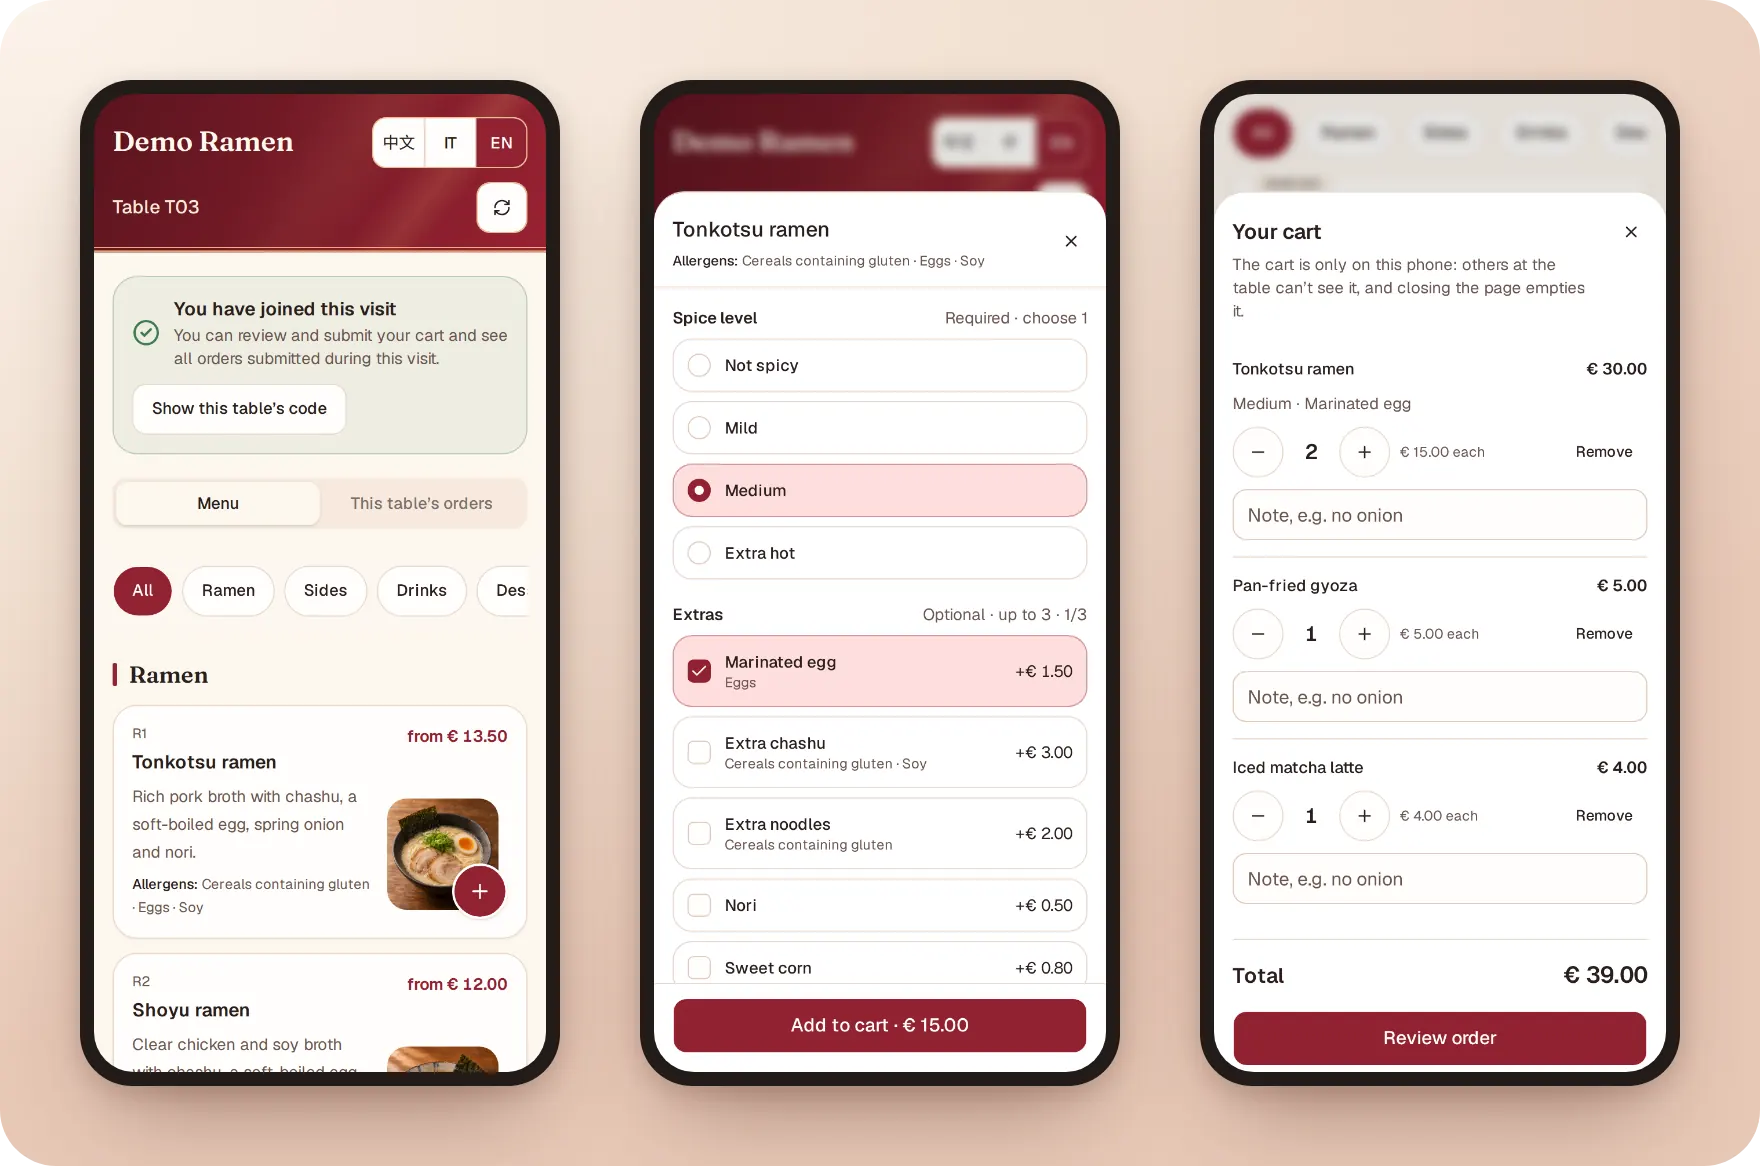
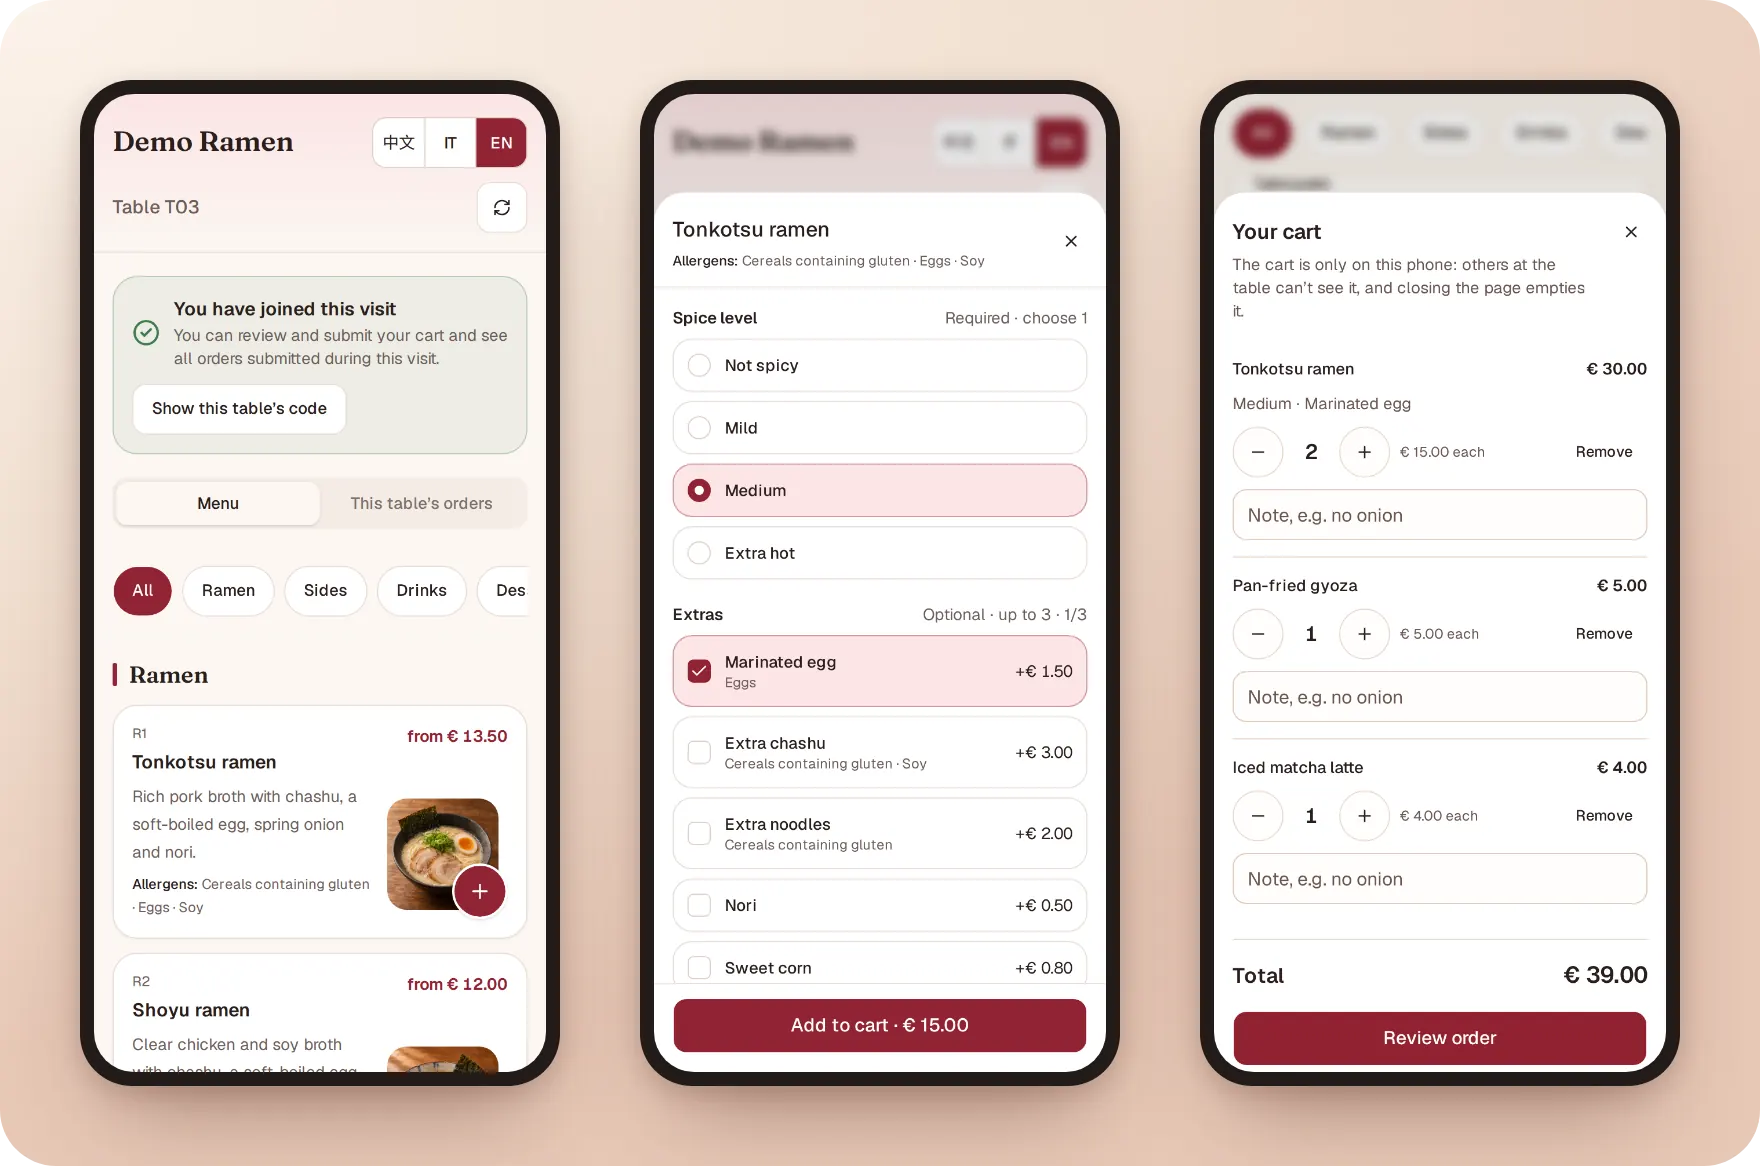
frontend: fix staff order layout and navigation

Changed region(s): [[0.0312, 0.0617, 0.3125, 0.2161], [0.3438, 0.0617, 0.6562, 0.1852]]

diff --git a/frontend/src/features/dining/StaffOrderPanel.tsx b/frontend/src/features/dining/StaffOrderPanel.tsx
@@ -1,4 +1,4 @@
-import { useRef, useState } from "react";
+import { useEffect, useRef, useState } from "react";
 import { useQuery } from "@tanstack/react-query";
 import { ArrowLeft, Plus } from "lucide-react";
 import { ConfirmDialog } from "@/components/confirm-dialog";
@@ -15,6 +15,7 @@ import { dishPriceCents, itemGroups } from "@/features/orders/options";
 import { totalCents } from "@/features/orders/state";
 import { formatMoney } from "@/lib/format";
 import { displayName } from "@/lib/language";
+import { useHistorySheet } from "@/lib/useHistorySheet";
 import { useLiveActive } from "@/lib/useLiveView";
 import { useStaffLanguage } from "@/lib/useStaffLanguage";
 import { staffOrderMessages } from "./staff-order-messages";
@@ -46,12 +47,23 @@ export function StaffOrderPanel({
   const menu = query.data;
   const [category, setCategory] = useState("");
   const [optionItemId, setOptionItemId] = useState<string | null>(null);
+  const panel = useRef<HTMLElement>(null);
+  const options = useHistorySheet(
+    "staff-order-options",
+    false,
+    () => panel.current?.closest<HTMLElement>('[data-slot="detail-scroll"]') ?? null,
+  );
   const cartHeading = useRef<HTMLHeadingElement>(null);
   const model = useStaffOrder({ account, tableId, sessionId, canSubmit, onDone });
   const { cart, review, busy, ended } = model;
   const locked = !canSubmit || !active || ended;
   const frozen = locked || busy || !!cart.pending || !!review;
-  const optionItem = menu?.items.find((item) => item.id === optionItemId) ?? null;
+  const optionItem = options.open
+    ? (menu?.items.find((item) => item.id === optionItemId) ?? null)
+    : null;
+  useEffect(() => {
+    if (options.open && (!optionItem || closed || ended || cart.pending)) options.hide();
+  });
   const defaultLanguage = menu?.defaultLanguage ?? language;
   const currentCategory = menu?.categories.some((entry) => entry.id === category) ? category : "";
   const dishes = menu?.items.filter(
@@ -60,7 +72,7 @@ export function StaffOrderPanel({
   const subtotal = (lines: typeof cart.lines) => formatMoney(totalCents(lines), language);
 
   return (
-    <section aria-label={m.place} className="min-w-0 space-y-4">
+    <section ref={panel} aria-label={m.place} className="min-w-0 space-y-4">
       <Button variant="ghost" onClick={onBack}>
         <ArrowLeft aria-hidden="true" /> {m.back}
       </Button>
@@ -146,8 +158,10 @@ export function StaffOrderPanel({
                     aria-label={m.add(name.text)}
                     disabled={frozen || unavailable || query.isError}
                     onClick={() => {
-                      if (itemGroups(item, menu.optionGroups).length) setOptionItemId(item.id);
-                      else model.add(item, menu);
+                      if (itemGroups(item, menu.optionGroups).length) {
+                        setOptionItemId(item.id);
+                        options.show();
+                      } else model.add(item, menu);
                     }}
                   >
                     <Plus aria-hidden="true" />
@@ -165,10 +179,10 @@ export function StaffOrderPanel({
             defaultLanguage={defaultLanguage}
             language={language}
             disabled={frozen}
-            close={() => setOptionItemId(null)}
+            close={options.hide}
             add={(item, ids) => {
               model.add(item, menu, ids);
-              setOptionItemId(null);
+              options.hide();
             }}
           />
         </>
@@ -220,7 +234,12 @@ export function StaffOrderPanel({
       )}
       <ConfirmDialog
         open={!!review && !!menu}
-        title={`${m.review} · ${tableTitle}`}
+        title={
+          <span className="block wrap-anywhere">
+            {m.review} · {tableTitle}
+          </span>
+        }
+        contentClassName="max-h-[calc(100dvh-2rem)] grid-cols-[minmax(0,1fr)] grid-rows-[auto_minmax(0,1fr)_auto]"
         confirmLabel={m.send}
         busy={busy}
         confirmDisabled={locked}
@@ -228,7 +247,7 @@ export function StaffOrderPanel({
         onCancel={model.dismissReview}
       >
         {review && menu && (
-          <div className="max-h-[45dvh] overflow-y-auto">
+          <div className="min-h-0 max-h-[45dvh] overflow-y-auto">
             <CartLines
               lines={review.lines}
               editable={false}

diff --git a/frontend/src/lib/useHistorySheet.ts b/frontend/src/lib/useHistorySheet.ts
@@ -1,22 +1,26 @@
 import { useEffect, useRef, useState } from "react";
 import { useLocation, useRouter } from "@tanstack/react-router";
 
-export type HistorySheet = "cart" | "options";
+export type HistorySheet = "cart" | "options" | "staff-order-options";
 
 declare module "@tanstack/react-router" {
   interface HistoryState {
-    // A customer page's open bottom sheet (useHistorySheet).
+    // An open bottom sheet (useHistorySheet).
     sheet?: HistorySheet;
   }
 }
 
-// A customer page's bottom sheet (the cart, a dish's options) as a step in the browser history. Opening
+// Treat a bottom sheet (the cart, a dish's options) as a step in the browser history. Opening
 // it adds an entry that only marks the sheet in its state, with the same URL, so the back gesture
 // (Android's back button, an iPhone's edge swipe, an in-app browser's back arrow) closes the sheet
 // instead of leaving the page, where a closed tab would lose the cart. Closing it from the page goes
 // back over that entry. The router scrolls every history step to the top, so closing restores the
 // scroll position the page had when the sheet opened.
-export function useHistorySheet(name: HistorySheet, restoreOnMount = true) {
+export function useHistorySheet(
+  name: HistorySheet,
+  restoreOnMount = true,
+  scrollElement?: () => HTMLElement | null,
+) {
   const router = useRouter();
   const state = useLocation({ select: (location) => location.state });
   const marked = state.sheet === name;
@@ -24,7 +28,7 @@ export function useHistorySheet(name: HistorySheet, restoreOnMount = true) {
   const [discardedKey] = useState(() => (marked && !restoreOnMount ? key : null));
   const discarded = marked && key === discardedKey;
   const open = marked && !discarded;
-  const scroll = useRef<number>(undefined);
+  const scroll = useRef<{ element: HTMLElement | null; top: number }>(undefined);
   // One history step at a time: a second tap before the first lands would add or remove another entry.
   const moving = useRef(false);
   useEffect(() => {
@@ -59,15 +63,19 @@ export function useHistorySheet(name: HistorySheet, restoreOnMount = true) {
           fromLocation?.state.sheet === name &&
           toLocation.state.sheet !== name &&
           fromLocation.pathname === toLocation.pathname
-        )
-          window.scrollTo(0, scroll.current);
+        ) {
+          const { element, top } = scroll.current;
+          if (element) element.scrollTop = top;
+          else window.scrollTo(0, top);
+        }
       }),
     [router, name],
   );
   function show() {
     if (marked || moving.current) return;
     moving.current = true;
-    scroll.current = window.scrollY;
+    const element = scrollElement?.() ?? null;
+    scroll.current = { element, top: element?.scrollTop ?? window.scrollY };
     void router.navigate({
       to: ".",
       search: true,

diff --git a/frontend/src/routes/staff.floor.tsx b/frontend/src/routes/staff.floor.tsx
@@ -1,7 +1,13 @@
-import { useCallback } from "react";
-import { createFileRoute } from "@tanstack/react-router";
+import { useCallback, useEffect, useRef } from "react";
+import { createFileRoute, useRouter } from "@tanstack/react-router";
 import { FloorPage } from "@/features/dining/FloorPage";
 import { billingSearch } from "@/features/billing/state";
+
+declare module "@tanstack/react-router" {
+  interface HistoryState {
+    staffOrderFromTable?: string;
+  }
+}
 
 export const Route = createFileRoute("/staff/floor")({
   validateSearch: (search: Record<string, unknown>): { sessionId?: string; mode?: "order" } => {
@@ -14,17 +20,40 @@ export const Route = createFileRoute("/staff/floor")({
   component: function FloorRoute() {
     const search = Route.useSearch();
     const navigate = Route.useNavigate();
+    const router = useRouter();
+    const returning = useRef(false);
+    useEffect(() => {
+      returning.current = false;
+    }, [search.sessionId, search.mode]);
     const select = useCallback(
       (sessionId: string) => void navigate({ search: { sessionId: sessionId || undefined } }),
       [navigate],
     );
     const showOrder = useCallback(
-      (sessionId: string, open: boolean) =>
+      (sessionId: string, open: boolean) => {
+        const location = router.history.location;
+        const current = new URLSearchParams(location.search);
+        if (current.get("sessionId") !== sessionId || (current.get("mode") === "order") === open)
+          return;
+        // Only an entry opened from this table is guaranteed to have its detail one step back.
+        if (
+          !open &&
+          location.state.staffOrderFromTable === sessionId &&
+          router.history.canGoBack()
+        ) {
+          if (returning.current) return;
+          returning.current = true;
+          router.history.back();
+          return;
+        }
         void navigate({
           search: { sessionId, mode: open ? "order" : undefined },
+          state: open ? { staffOrderFromTable: sessionId } : {},
           replace: !open,
-        }),
-      [navigate],
+          resetScroll: false,
+        });
+      },
+      [navigate, router],
     );
     return (
       <FloorPage

diff --git a/frontend/src/components/confirm-dialog.tsx b/frontend/src/components/confirm-dialog.tsx
@@ -20,6 +20,7 @@ export function ConfirmDialog({
   title,
   description,
   children,
+  contentClassName,
   confirmLabel,
   cancelLabel,
   tone = "default",
@@ -33,6 +34,7 @@ export function ConfirmDialog({
   title: ReactNode;
   description?: ReactNode;
   children?: ReactNode;
+  contentClassName?: string;
   confirmLabel: string;
   cancelLabel?: string;
   tone?: "default" | "destructive";
@@ -50,7 +52,7 @@ export function ConfirmDialog({
         if (!next && !busy) onCancel();
       }}
     >
-      <AlertDialogContent initialFocus={initialFocus}>
+      <AlertDialogContent className={contentClassName} initialFocus={initialFocus}>
         <AlertDialogHeader>
           <AlertDialogTitle className="text-lg font-semibold wrap-break-word">
             {title}

diff --git a/frontend/src/components/master-detail.tsx b/frontend/src/components/master-detail.tsx
@@ -42,6 +42,7 @@ export function MasterDetail({
         {open && (
           <aside
             aria-label={title}
+            data-slot="detail-scroll"
             className="sticky top-6 max-h-[calc(100dvh-3rem)] overflow-y-auto rounded-2xl border bg-card p-5 shadow-xs"
           >
             <div className="mb-4 flex items-start justify-between gap-3">
@@ -94,7 +95,9 @@ export function MasterDetail({
               <X />
             </SheetClose>
           </SheetHeader>
-          <div className="pb-safe flex-1 overflow-y-auto p-4">{detail}</div>
+          <div data-slot="detail-scroll" className="pb-safe flex-1 overflow-y-auto p-4">
+            {detail}
+          </div>
         </SheetContent>
       </Sheet>
     </>

diff --git a/frontend/src/features/orders/OrderViews.tsx b/frontend/src/features/orders/OrderViews.tsx
@@ -437,8 +437,7 @@ export function CartLines({
                   </span>
                   <Button
                     variant="ghost"
-                    size="sm"
-                    className="ml-auto"
+                    className="ml-auto px-3 text-[0.8rem]"
                     disabled={frozen}
                     onClick={() => change(index, { quantity: 0 })}
                     aria-label={`${m.remove}: ${name.text}`}

diff --git a/docs/reference/dining-ordering.md b/docs/reference/dining-ordering.md
@@ -129,6 +129,12 @@ requires an active restaurant service, enabled dine-in and an enabled table. The
 only gates the guest entry point. The kitchen and the guest's table order list include both kinds
 of orders. `orders.is_staff_placed` records which path created the order for bill detail display.
 
+Staff open dish options as a browser history step. Back dismisses the picker and restores the
+scroll position in the Floor detail. Returning from the order or sending it brings staff back to
+the same visit. When staff open an order link directly, its Back button shows that visit's detail.
+In the review dialog, the table title wraps and the list of dishes can scroll while the action
+buttons stay within the viewport.
+
 The staff draft and frozen request live in tab storage keyed by restaurant, account and visit.
 Recovery only reads the original staff submission. An explicit retry of that same payload and ID
 is available after a lookup has returned `ORDER_NOT_FOUND`. A definitively rejected first submission
